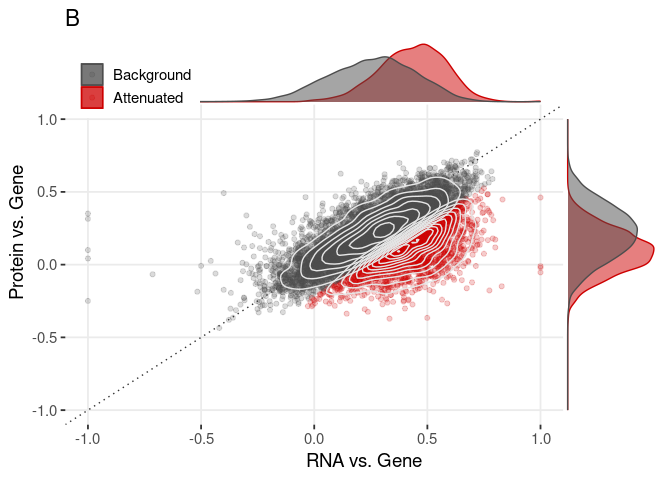
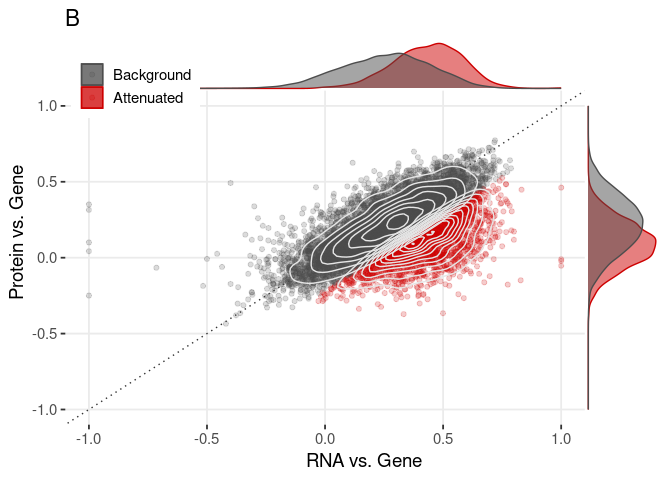
Reduced the size of the side panels

diff --git a/simple_figures/simple_figures.md b/simple_figures/simple_figures.md
@@ -617,7 +617,7 @@ plot_values <- ggplot(
     legend.justification = c(0, 1), 
     legend.position = c(0.01, 0.99),
     legend.title = element_blank(),
-    ggside.panel.scale = 0.2,
+    ggside.panel.scale = 0.15,
     ggside.axis.ticks = element_blank(),
     ggside.axis.text = element_blank(),
     ggside.panel.grid = element_blank(),
